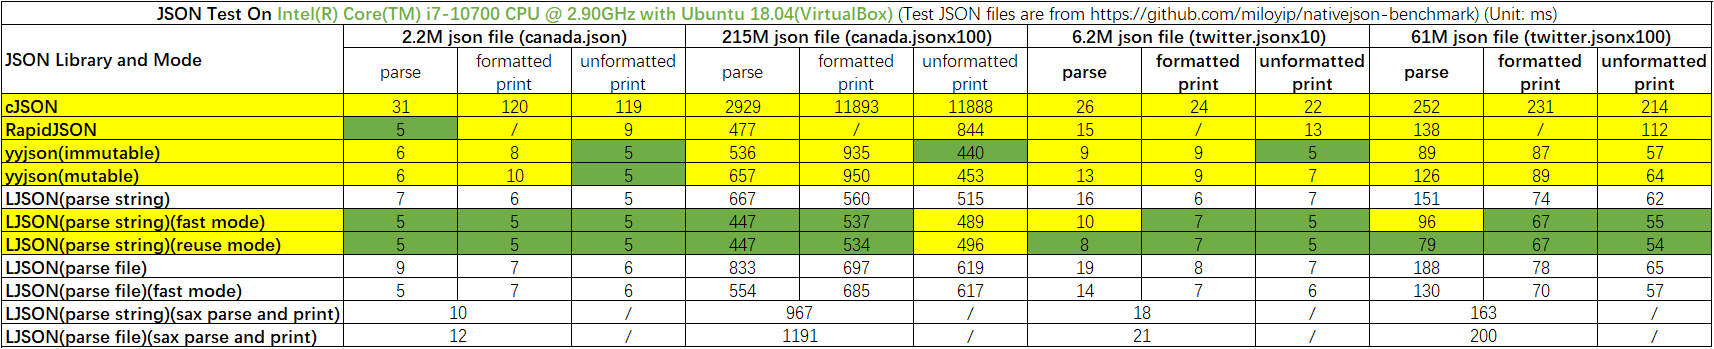
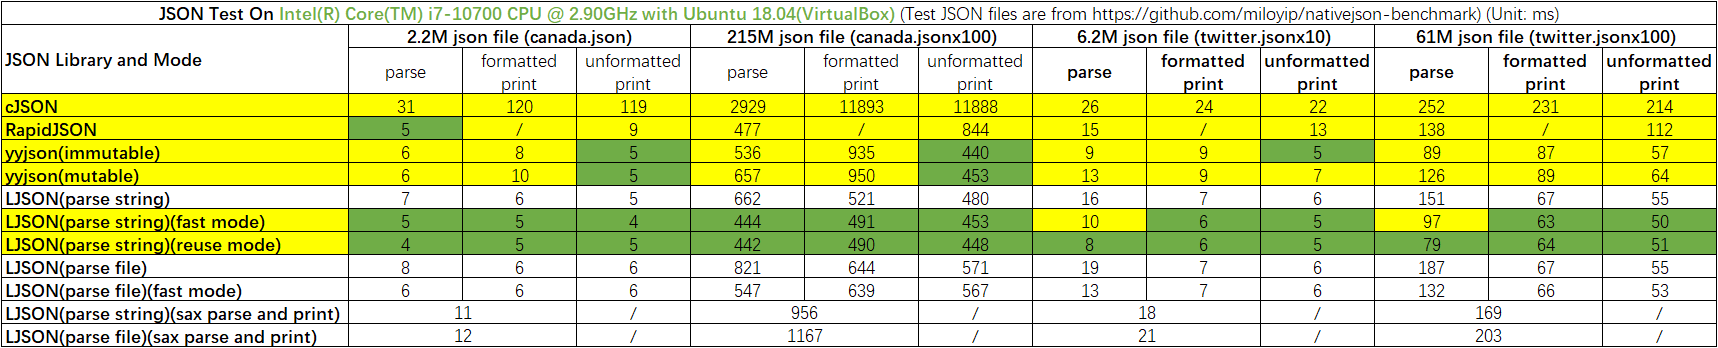
Optimize printing speed

diff --git a/json.h b/json.h
@@ -10,7 +10,7 @@
 #include <stdbool.h>
 #include <stdlib.h>
 
-#define JSON_VERSION                    0x010300
+#define JSON_VERSION                    0x010301
 #define JSON_SAX_APIS_SUPPORT           1
 #define JSON_LONG_LONG_SUPPORT          1
 
@@ -803,6 +803,13 @@ void pjson_memory_free(json_mem_t *mem);
 void pjson_memory_init(json_mem_t *mem);
 
 /*
+ * pjson_memory_statistics - Count the alloced memory of the memory blocks
+ * @mgr: IN, the block memory manager node
+ * @return: the alloced memory size
+ */
+int pjson_memory_statistics(json_mem_mgr_t *mgr);
+
+/*
  * pjson_new_object - Create a pool json object without value
  * @type: IN, the json object type
  * @mem: IN, the block memory manager
@@ -1164,15 +1171,17 @@ char *json_print_common(json_object *json, json_print_choice_t *choice);
 /*
  * json_print_format - Formatted DOM printer to string
  * @json: IN, the json object to be printed
+ * @item_total: IN, the total json objects, it is better to set the value by users
  * @length: OUT, the length of returned print string
  * @return: NULL on failure, a pointer on success
  */
-static inline char *json_print_format(json_object *json, size_t *length)
+static inline char *json_print_format(json_object *json, int item_total, size_t *length)
 {
     json_print_choice_t choice = {0};
     char *str = NULL;
 
     choice.format_flag = true;
+    choice.item_total = item_total;
     str = json_print_common(json, &choice);
     if (length)
         *length = choice.str_len;
@@ -1182,15 +1191,17 @@ static inline char *json_print_format(json_object *json, size_t *length)
 /*
  * json_print_unformat - Compressed DOM printer to string
  * @json: IN, the json object to be printed
+ * @item_total: IN, the total json objects, it is better to set the value by users
  * @length: OUT, the length of returned print string
  * @return: NULL on failure, a pointer on success
  */
-static inline char *json_print_unformat(json_object *json, size_t *length)
+static inline char *json_print_unformat(json_object *json, int item_total, size_t *length)
 {
     json_print_choice_t choice = {0};
     char *str = NULL;
 
     choice.format_flag = false;
+    choice.item_total = item_total;
     str = json_print_common(json, &choice);
     if (length)
         *length = choice.str_len;
@@ -1200,14 +1211,16 @@ static inline char *json_print_unformat(json_object *json, size_t *length)
 /*
  * json_fprint_format - Formatted DOM printer to file
  * @json: IN, the json object to be printed
+ * @item_total: IN, the total json objects, it is better to set the value by users
  * @path: IN, the file to store the printed string
  * @return: NULL on failure, a pointer on success
  */
-static inline char *json_fprint_format(json_object *json, const char *path)
+static inline char *json_fprint_format(json_object *json, int item_total, const char *path)
 {
     json_print_choice_t choice = {0};
 
     choice.format_flag = true;
+    choice.item_total = item_total;
     choice.path = path;
     return json_print_common(json, &choice);
 }
@@ -1215,14 +1228,16 @@ static inline char *json_fprint_format(json_object *json, const char *path)
 /*
  * json_fprint_unformat - Compressed DOM printer to file
  * @json: IN, the json object to be printed
+ * @item_total: IN, the total json objects, it is better to set the value by users
  * @path: IN, the file to store the printed string
  * @return: NULL on failure, a pointer on success
  */
-static inline char *json_fprint_unformat(json_object *json, const char *path)
+static inline char *json_fprint_unformat(json_object *json, int item_total, const char *path)
 {
     json_print_choice_t choice = {0};
 
     choice.format_flag = false;
+    choice.item_total = item_total;
     choice.path = path;
     return json_print_common(json, &choice);
 }

diff --git a/json.c b/json.c
@@ -95,7 +95,9 @@
 
 /* print choice size */
 #define JSON_PRINT_UTF16_SUPPORT        0
+#define JSON_PRINT_NUM_INIT_DEF         1024
 #define JSON_PRINT_NUM_PLUS_DEF         64
+#define JSON_PRINT_DEPTH_DEF            16
 #define JSON_PRINT_SIZE_PLUS_DEF        1024
 #define JSON_FORMAT_ITEM_SIZE_DEF       32
 #define JSON_UNFORMAT_ITEM_SIZE_DEF     24
@@ -170,19 +172,16 @@ void json_memory_free(void *ptr)
         json_free(ptr);
 }
 
-int json_item_total_get(json_object *json)
+static inline int _item_total_get(json_object *json)
 {
     int cnt = 0;
     json_object *item = NULL;
-
-    if (!json)
-        return 0;
 
     switch (json->type_member) {
     case JSON_ARRAY:
     case JSON_OBJECT:
         json_list_for_each_entry(item, &json->value.head, list) {
-            cnt += json_item_total_get(item);
+            cnt += _item_total_get(item);
         }
         break;
     default:
@@ -191,6 +190,13 @@ int json_item_total_get(json_object *json)
     ++cnt;
 
     return cnt;
+}
+
+int json_item_total_get(json_object *json)
+{
+    if (!json)
+        return 0;
+    return _item_total_get(json);
 }
 
 void json_del_object(json_object *json)
@@ -979,6 +985,17 @@ void pjson_memory_free(json_mem_t *mem)
     _json_mem_free(&mem->obj_mgr);
     _json_mem_free(&mem->key_mgr);
     _json_mem_free(&mem->str_mgr);
+}
+
+int pjson_memory_statistics(json_mem_mgr_t *mgr)
+{
+    json_mem_node_t *pos = NULL;
+    int size = 0;
+
+    json_list_for_each_entry(pos, &mgr->head, list) {
+        size += pos->size;
+    }
+    return size;
 }
 
 json_object *pjson_new_object(json_type_t type, json_mem_t *mem)
@@ -2600,7 +2617,7 @@ char *json_print_common(json_object *json, json_print_choice_t *choice)
     if (!json)
         return NULL;
 
-    print_val.item_total = choice->item_total ? print_val.item_total : json_item_total_get(json);
+    print_val.item_total = choice->item_total ? choice->item_total : JSON_PRINT_NUM_INIT_DEF;
     if (_print_val_init(&print_val, choice) < 0)
         return NULL;
 
@@ -2742,7 +2759,7 @@ int json_sax_print_value(json_sax_print_hd handle, json_type_t type, json_string
         switch ((*(json_sax_cmd_t*)value)) {
         case JSON_SAX_START:
             if (unlikely(print_handle->count == print_handle->total)) {
-                print_handle->total += JSON_PRINT_NUM_PLUS_DEF;
+                print_handle->total += JSON_PRINT_DEPTH_DEF;
                 if (unlikely((print_handle->array = json_realloc(print_handle->array,
                             print_handle->total * sizeof(json_sax_print_depth_t))) == NULL)) {
                     JsonErr("malloc failed!\n");
@@ -2818,13 +2835,13 @@ json_sax_print_hd json_sax_print_start(json_print_choice_t *choice)
         return NULL;
     }
     if (choice->item_total == 0)
-        choice->item_total = JSON_PRINT_NUM_PLUS_DEF;
+        choice->item_total = JSON_PRINT_NUM_INIT_DEF;
     if (_print_val_init(&print_handle->print_val, choice) < 0) {
         json_free(print_handle);
         return NULL;
     }
 
-    print_handle->total = JSON_PRINT_NUM_PLUS_DEF;
+    print_handle->total = JSON_PRINT_DEPTH_DEF;
     if ((print_handle->array = json_malloc(print_handle->total * sizeof(json_sax_print_depth_t))) == NULL) {
         _print_val_release(&print_handle->print_val, true, NULL);
         json_free(print_handle);

diff --git a/json_test.c b/json_test.c
@@ -251,6 +251,7 @@ int main(int argc, char *argv[])
     json_object *json = NULL;
     unsigned int ms1 = 0, ms2 = 0, ms3 = 0, ms4 = 0, ms5 = 0;
     int fast_flag = 0;
+    int item_total = 0;
 
     pjson_memory_init(&mem);
 
@@ -357,23 +358,34 @@ int main(int argc, char *argv[])
     }
 
     ms2 = _system_ms_get();
+    switch(choice)
+    {
+    case 2:
+    case 3:
+    case 5:
+        item_total = pjson_memory_statistics(&mem.obj_mgr) >> 6;
+        break;
+    default:
+        break;
+    }
+
     snprintf(s_dst_json_path, sizeof(s_dst_json_path), "%s-%d.format.json", file, choice);
     switch(choice)
     {
     case 1:
-        print_str = json_print_format(json, &print_size);
+        print_str = json_print_format(json, item_total, &print_size);
         break;
     case 2:
-        print_str = json_print_format(json, &print_size);
+        print_str = json_print_format(json, item_total, &print_size);
         break;
     case 3:
-        print_str = json_print_format(json, &print_size);
+        print_str = json_print_format(json, item_total, &print_size);
         break;
     case 4:
-        json_fprint_format(json, s_dst_json_path);
+        json_fprint_format(json, item_total, s_dst_json_path);
         break;
     case 5:
-        json_fprint_format(json, s_dst_json_path);
+        json_fprint_format(json, item_total, s_dst_json_path);
         break;
     default:
         break;
@@ -391,19 +403,19 @@ int main(int argc, char *argv[])
     switch(choice)
     {
     case 1:
-        print_str = json_print_unformat(json, &print_size);
+        print_str = json_print_unformat(json, item_total, &print_size);
         break;
     case 2:
-        print_str = json_print_unformat(json, &print_size);
+        print_str = json_print_unformat(json, item_total, &print_size);
         break;
     case 3:
-        print_str = json_print_unformat(json, &print_size);
+        print_str = json_print_unformat(json, item_total, &print_size);
         break;
     case 4:
-        json_fprint_unformat(json, s_dst_json_path);
+        json_fprint_unformat(json, item_total, s_dst_json_path);
         break;
     case 5:
-        json_fprint_unformat(json, s_dst_json_path);
+        json_fprint_unformat(json, item_total, s_dst_json_path);
         break;
     default:
         break;

diff --git a/README_zh-cn.md b/README_zh-cn.md
@@ -65,12 +65,12 @@ make O=<编译输出目录> CROSS_COMPILE=<交叉编译器前缀> && make O=<编
 注：主要是测试速度，`O2` 优化等级且默认选项编译，测试文件来自 [nativejson-benchmark](https://github.com/miloyip/nativejson-benchmark) 项目
 
 > 测试平台: Ambarella CV25M Board | CPU: ARM CortexA53 | OS: Linux-5.15<br>
-> 测试结果: LJSON 比cJSON 解析最快可达 450%，打印最快可达 2232%，LJSON 比 RapidJSON 解析最快可达 131%，打印最快可达 122%
+> 测试结果: LJSON 比cJSON 解析最快可达 462%，打印最快可达 2436%，LJSON 比 RapidJSON 解析最快可达 131%，打印最快可达 137%
 
 ![AARCH64-Linux测试结果](test_result/test_for_aarch64.png)
 
 > 测试平台: PC | CPU: Intel i7-10700 | OS: Ubuntu 18.04 (VirtualBox)<br>
-> 测试结果: :LJSON 比cJSON 解析最快可达 555%，打印最快可达 2397%，LJSON 比 RapidJSON 解析最快可达 75%，打印最快可达 107%
+> 测试结果: :LJSON 比cJSON 解析最快可达 563%，打印最快可达 2554%，LJSON 比 RapidJSON 解析最快可达 75%，打印最快可达 124%
 
 ![x86_64-Linux测试结果](test_result/test_for_x86_64.png)
 
@@ -408,10 +408,12 @@ typedef struct {
 ```c
 void pjson_memory_free(json_mem_t *mem);
 void pjson_memory_init(json_mem_t *mem);
++int pjson_memory_statistics(json_mem_mgr_t *mgr);
 ```
 
 * pjson_memory_free: 释放json内存池管理的所有内存
 * pjson_memory_init: 初始化json内存池管理结构
+* pjson_memory_statistics: 统计内存池分配的内存
 * 注：编辑模式初始化内存池后可修改mem_size
 * 注：使用内存池前需要使用pjson_memory_init初始化内存池入口，全部使用完成后使用pjson_memory_free释放
 * 注：绝对不要调用存在malloc, free之类的api，例如`json_new_object`和`json_del_object`等
@@ -532,10 +534,10 @@ typedef struct {
 ```c
 char *json_print_common(json_object *json, json_print_choice_t *choice);
 
-static inline char *json_print_format(json_object *json, size_t *length);
-static inline char *json_print_unformat(json_object *json, size_t *length);
-static inline char *json_fprint_format(json_object *json, const char *path);
-static inline char *json_fprint_unformat(json_object *json, const char *path);
+static inline char *json_print_format(json_object *json, int item_total, size_t *length);
+static inline char *json_print_unformat(json_object *json, int item_total, size_t *length);
+static inline char *json_fprint_format(json_object *json, int item_total, const char *path);
+static inline char *json_fprint_unformat(json_object *json, int item_total, const char *path);
 ```
 
 * json_print_common: 打印通用接口

diff --git a/README.md b/README.md
@@ -64,12 +64,12 @@ make O=<output path> CROSS_COMPILE=<tool prefix> && make O=<output path> DESTDIR
 Note: 'O2' optimization level and default option compilation, the test files come from the [nativejson-benchmark](https://github.com/miloyip/nativejson-benchmark) project
 
 > Test Platform: Ambarella CV25M Board | CPU: ARM CortexA53 | OS: Linux-5.15<br>
-> Test Result: LJSON parses 450% faster and prints 2232% faster than cJSON, LJSON parses 131% faster and prints 122% faster than RapidJSON
+> Test Result: LJSON parses 462% faster and prints 2436% faster than cJSON, LJSON parses 131% faster and prints 137% faster than RapidJSON
 
 ![AARCH64-Linux Test Result](test_result/test_for_aarch64.png)
 
 > Test Platform: PC | CPU: Intel i7-10700 | OS: Ubuntu 18.04 (VirtualBox)<br>
-> Test Result: LJSON parses 555% faster and prints 2397% faster than cJSON, LJSON parses 75% faster and prints 107% faster than RapidJSON
+> Test Result: LJSON parses 563% faster and prints 2554% faster than cJSON, LJSON parses 75% faster and prints 124% faster than RapidJSON
 
 ![x86_64-Linux Test Result](test_result/test_for_x86_64.png)
 
